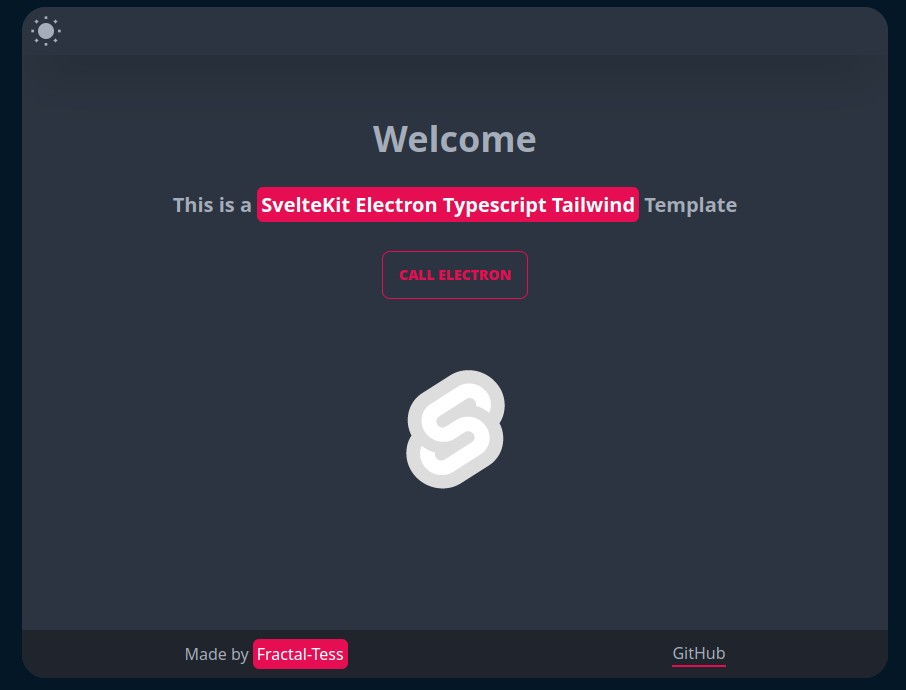
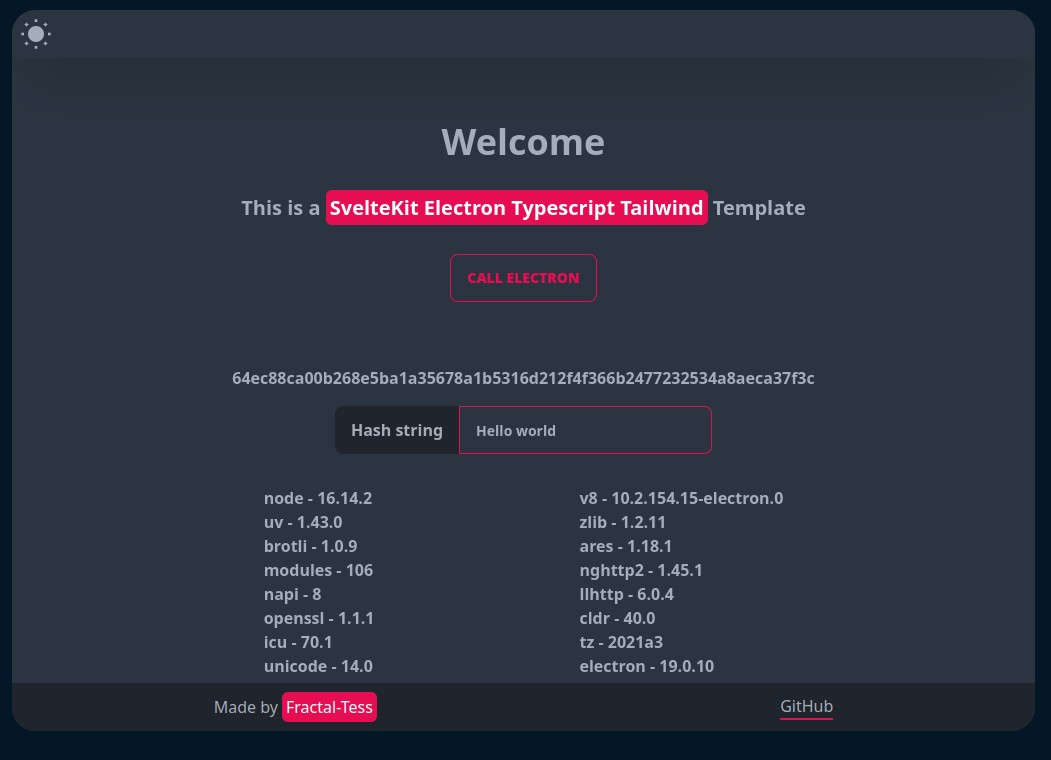
feat: :art: improved example

diff --git a/src/routes/index.svelte b/src/routes/index.svelte
@@ -6,6 +6,11 @@
   import { fade } from 'svelte/transition';
 
   let message = '';
+  let hashInput = 'Hello world';
+  let hashOutput: string;
+  $: {
+    hashOutput = api.sha256sum(hashInput);
+  }
 
   const callElectron = () => {
     message = api.example();
@@ -26,7 +31,7 @@
     class=" font-extrabold btn btn-outline btn-secondary btn-md"
     >Call Electron</button
   >
-  <div class="relative my-4">
+  <div class="relative">
     {#key message}
       <p
         class="absolute outline-secondary border-b-2 border-secondary text-2xl
@@ -39,15 +44,21 @@
     {/key}
   </div>
 
+  <span class="text-center -mb-4 text-md">{hashOutput}</span>
+  <div class="form-control">
+    <label class="input-group">
+      <span>Hash string</span>
+      <input
+        bind:value={hashInput}
+        type="text"
+        class="input input-bordered input-secondary focus:ring-secondary focus:border-secondary focus:outline-none"
+      />
+    </label>
+  </div>
+
   <ul class="grid grid-cols-2 grid- ">
     {#each versions as [key, val]}
       <li class="mx-14">{key} - {val}</li>
     {/each}
   </ul>
-
-  <style scoped>
-    ul {
-      list-style: none;
-    }
-  </style>
 </div>

diff --git a/src/routes/__layout.svelte b/src/routes/__layout.svelte
@@ -1,7 +1,7 @@
 <script lang="ts">
   import '$styles/app.scss';
 
-  import { fly } from 'svelte/transition';
+  import { fade } from 'svelte/transition';
   import { onMount } from 'svelte';
 
   import Header from '$lib/header/Header.svelte';
@@ -21,13 +21,12 @@
   // const externalUrlQueryModal = false;
 </script>
 
-<div class="bg-base-100 text-base-content h-screen  flex flex-col">
+<div
+  class="bg-base-100 text-base-content h-screen flex flex-col overflow-y-auto overflow-x-hidden"
+>
   <Header />
   {#if ready}
-    <main
-      class="flex-1 shadow-lg"
-      in:fly={{ delay: 300, opacity: 0, duration: 1000, y: 100 }}
-    >
+    <main class="flex-1 shadow-lg" in:fade={{ delay: 300, duration: 1000 }}>
       <slot />
     </main>
     <!-- {#if externalUrlQueryModal}

diff --git a/src/lib/footer/Footer.svelte b/src/lib/footer/Footer.svelte
@@ -1,4 +1,7 @@
-<div class="h-12 items-center flex justify-around bg-base-300">
+<!-- Make she the bottom rounded value of fixed elements is the same as  html/body in the app.scss file  -->
+<div
+  class="fixed bottom-0 w-full rounded-b-3xl h-12 items-center flex justify-around bg-base-300"
+>
   <a target="_blank" href="https://github.com/Fractal-Tess">
     Made by <span class="text-secondary-content bg-secondary p-[4px] rounded-md"
       >Fractal-Tess</span

diff --git a/src/styles/app.scss b/src/styles/app.scss
@@ -41,3 +41,6 @@ html {
 .dev {
   outline: 2px solid red;
 }
+.dev-border {
+  border: 3px solid red;
+}
